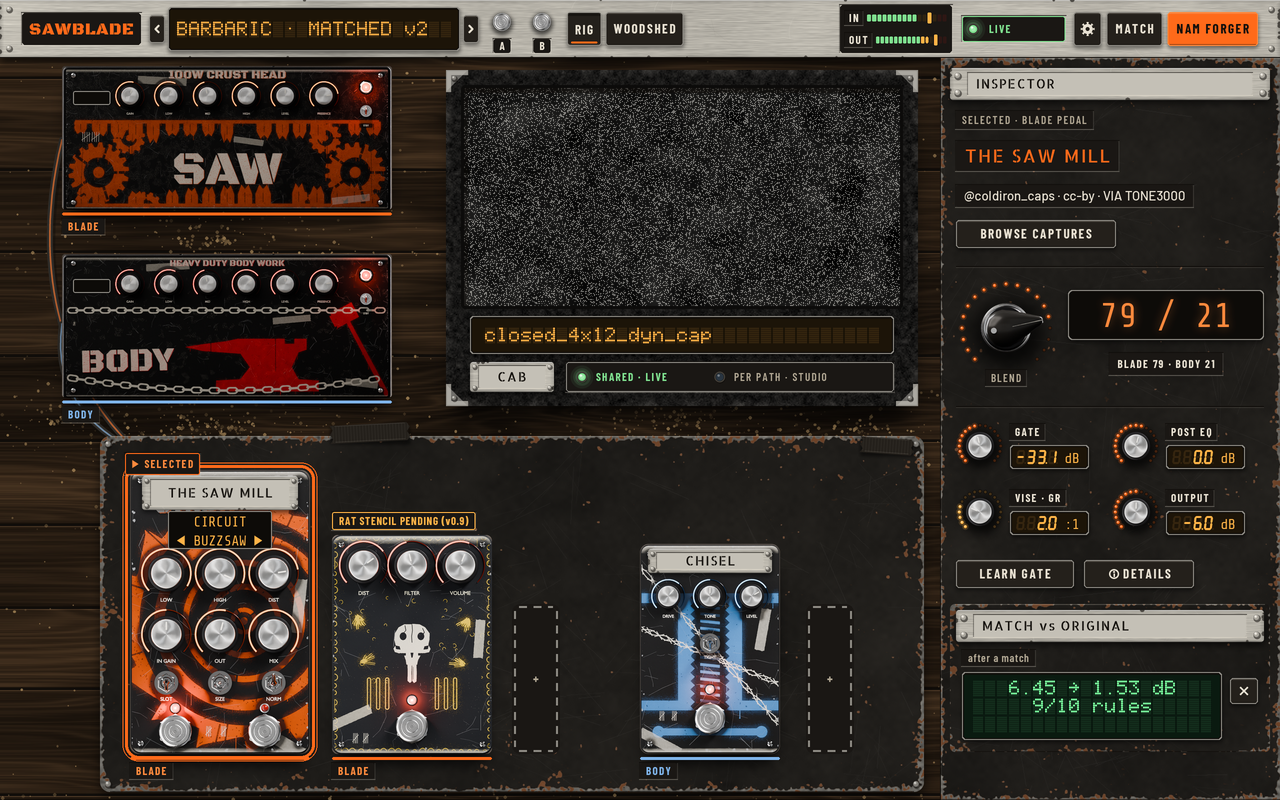
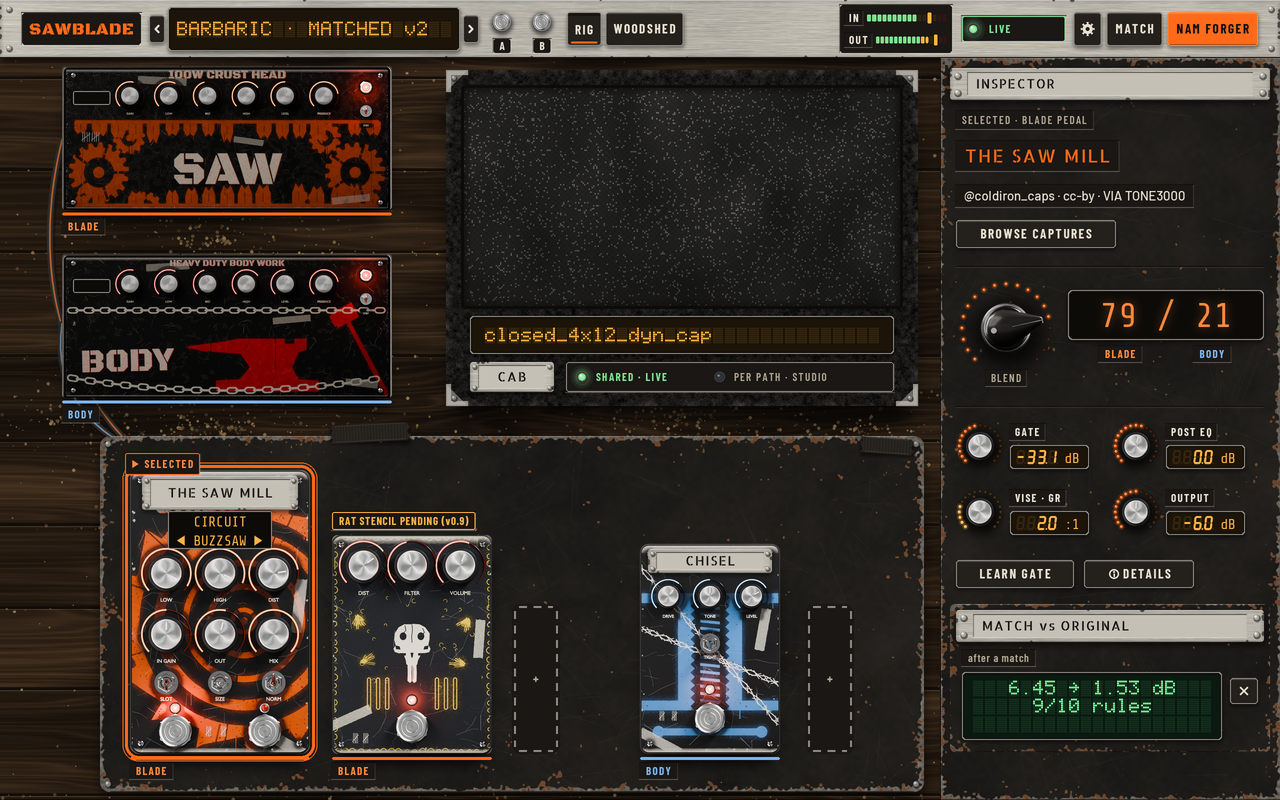
mockups: v4 fixes (cab a grille as woven cloth, BLEND axis labels, 08 header tags are type only)
- cab a grille: fine basket weave, near-black with sparse silver flecks, vertical drape shading, edges under the frame (both wear levels)
- 01 inspector: BLADE / BODY under the nixie digits instead of a caption repeating 79 / 21
- 08 cards: headers carry MODELLED / CAPTURE / PRE only; the lamp carries ACTIVE / BYPASSED; card() gets bypass_word (default unchanged)
- v2 / v3 PNGs unchanged; README what-changed lines updated

Claude-Session: https://claude.ai/code/session_01Xtcva4Boag1J55QcGzGRmV

Changed region(s): [[0.3438, 0.0938, 0.7188, 0.375], [0.8438, 0.4375, 0.9688, 0.4688]]

diff --git a/design/mockups/workshop/cabs.py b/design/mockups/workshop/cabs.py
@@ -8,6 +8,7 @@ Every cab shows SHARED · LIVE vs PER PATH · STUDIO as two lamps with words (sh
 import math
 import os
 import sys
+import zlib
 
 HERE = os.path.dirname(os.path.abspath(__file__))
 sys.path.insert(0, os.path.normpath(os.path.join(HERE, '..', '..', 'render')))
@@ -53,14 +54,23 @@ def ply_tex(w, h, key, tone=(184, 148, 100)):
 
 
 def pepper_tex(w, h, key):
-    """Salt-and-pepper grille cloth: black and grey 2 px flecks."""
+    """Salt-and-pepper grille cloth: a fine basket weave, near-black with small silver flecks on the thread grid, low contrast,
+    a slight vertical drape shading."""
     rng = ws._rng('pepper:' + key)
     W, H = int(w * S), int(h * S)
-    cw, ch = W // 2 + 1, H // 2 + 1
-    r = rng.random((ch, cw)).astype(np.float32)
-    a = np.where(r < 0.16, 128.0, np.where(r < 0.30, 70.0, 18.0))
-    a = np.kron(a, np.ones((2, 2), np.float32))[:H, :W]
-    a += ws._noise(rng, H, W, 40, 40)[:H, :W] * 4.0
+    cell = 3                                                    # device px per weave thread
+    yy, xx = np.mgrid[0:H, 0:W]
+    ty, tx = yy // cell, xx // cell
+    over = ((tx // 2 + ty // 2) % 2 == 0)                       # basket weave: 2 x 2 thread blocks alternate warp / weft
+    inner = np.where(over, (xx % cell) / (cell - 1.0), (yy % cell) / (cell - 1.0))
+    thread = 0.5 + 0.5 * np.sin(inner * math.pi)
+    a = 22.0 + 14.0 * thread * np.where(over, 1.0, 0.7)
+    seed = zlib.crc32(('fleck' + key + ws.get_wear()).encode('utf-8'))
+    fl = np.random.default_rng(seed).random((H // cell + 1, W // cell + 1)) < 0.07
+    fl = np.kron(fl, np.ones((cell, cell), bool))[:H, :W]
+    a = a + fl * (34.0 + 22.0 * thread)                         # small silver flecks, one thread long
+    a = a * (1.12 - 0.22 * (yy / float(H)))                     # vertical drape: lighter at the top, darker toward the bottom
+    a = a * (0.97 + 0.06 * ws._noise(rng, H, W, 60, 90)[:H, :W])
     img = np.stack([a, a * 0.99, a * 0.96], axis=-1)
     return Image.fromarray(np.clip(img, 0, 255).astype(np.uint8), 'RGB')
 
@@ -101,8 +111,12 @@ def cab_a(cv, rect, ir_title='closed_4x12_dyn_cap'):
     gr = (x0 + 18, y0 + 18, x1 - 18, y1 - 100)
     cv.fill((gr[0] - 3, gr[1] - 3, gr[2] + 3, gr[3] + 3), (12, 11, 10), 4)
     cv.texture(gr, pepper_tex(int(gr[2] - gr[0]), int(gr[3] - gr[1]), 'a'), 2)
-    cv.blend((gr[0], gr[1], gr[2], gr[1] + 5), 'bench_dark', 0.55)
-    cv.blend((gr[0], gr[1], gr[0] + 4, gr[3]), 'bench_dark', 0.4)
+    for i in range(7):                                   # the cloth runs under the tolex frame: a soft inner shadow on every edge
+        a_ = 0.5 * (1 - i / 7.0)
+        cv.blend((gr[0], gr[1] + i, gr[2], gr[1] + i + 1), 'bench_dark', a_)
+        cv.blend((gr[0], gr[3] - i - 1, gr[2], gr[3] - i), 'bench_dark', a_ * 0.8)
+        cv.blend((gr[0] + i, gr[1], gr[0] + i + 1, gr[3]), 'bench_dark', a_)
+        cv.blend((gr[2] - i - 1, gr[1], gr[2] - i, gr[3]), 'bench_dark', a_)
     _corner_caps(cv, rect)
     ws.dm_display(cv, (x0 + 24, y1 - 90, x1 - 24, y1 - 52), ir_title, h=14, tone='amber', pad=8)
     ws.nameplate(cv, (x0 + 24, y1 - 44, x0 + 108, y1 - 14), 'CAB')

diff --git a/design/mockups/workshop/screens_tools.py b/design/mockups/workshop/screens_tools.py
@@ -635,7 +635,7 @@ def _lane_header(cv, rect, name, right, color):
 def _block_card_v4(cv, rect, title, key, lines, accent, status=None, bypassed=False, lamp_line=None, input_db='0.0', knob_v=0.5):
     """v4 block card: title strip, two short lines (the first may carry a state lamp + word), one ACTIVE / BYPASSED lamp row with a
     BYPASS button, the INPUT knob + LCD and three icon buttons.  No duplicated captions."""
-    cd = ws.card(cv, rect, title, accent, bypassed=bypassed, status=None if bypassed else status, key=key)
+    cd = ws.card(cv, rect, title, accent, bypassed=bypassed, status=status, key=key, bypass_word=False)    # header = type tag only; the lamp carries the state
     bx0, by0, bx1, by1 = cd['body']
     wr = (bx0, by0, bx1, by0 + 44)
     well(cv, wr, 'well', 2)
@@ -688,7 +688,7 @@ def _screen_08_v4():
                    [('rat-style distortion', 'body_strong', None), ('modelled pedal', 'body_dim', None)], 'blade', status='MODELLED',
                    knob_v=0.7)
     _block_card_v4(cv, (xs[2], cy0, xs[2] + cw, cy0 + ch), 'SAW HEAD', 'v4b',
-                   [('UNCAL', 'label_b', 'warn'), ('default +9 dBu', 'body_dim', None)], 'blade', lamp_line='amber', input_db='+1.5', knob_v=0.56)
+                   [('UNCAL', 'label_b', 'warn'), ('default +9 dBu', 'body_dim', None)], 'blade', status='CAPTURE', lamp_line='amber', input_db='+1.5', knob_v=0.56)
     _block_card_v4(cv, (xs[3], cy0, xs[3] + cw, cy0 + ch), 'EQ', 'v4c',
                    [('PRE · 4 bands', 'body_strong', None), ('low cut 80 Hz', 'body_dim', None)], 'blade', status='PRE')
     ws.empty_slot(cv, (plus_x, cy0, x1, cy0 + ch), '+')
@@ -696,9 +696,9 @@ def _screen_08_v4():
     _lane_header(cv, (x0, ly2, x1, ly2 + 26), 'B · BODY', 'PATH B', 'body')
     cy1 = ly2 + 34
     _block_card_v4(cv, (xs[0], cy1, xs[0] + cw, cy1 + ch), 'CHISEL', 'v4d',
-                   [('modelled pedal', 'body', None), ('passes straight through', 'body_dim', None)], 'body', bypassed=True)
+                   [('modelled pedal', 'body', None), ('passes straight through', 'body_dim', None)], 'body', status='MODELLED', bypassed=True)
     _block_card_v4(cv, (xs[1], cy1, xs[1] + cw, cy1 + ch), 'BODY HEAD', 'v4e',
-                   [('✓ calibrated', 'body', 'ok'), ('+12.5 dBu', 'body_dim', None)], 'body', status='ON', input_db='-2.0', knob_v=0.42)
+                   [('✓ calibrated', 'body', 'ok'), ('+12.5 dBu', 'body_dim', None)], 'body', status='CAPTURE', input_db='-2.0', knob_v=0.42)
     ws.empty_slot(cv, (xs[2], cy1, xs[2] + 56, cy1 + ch), '+')
     ny = cy1 + ch + 12
     label_well(cv, (x0, ny + 13), 'CAB', 'label_b', h=22, pad=8)

diff --git a/design/render/workshop_style.py b/design/render/workshop_style.py
@@ -1209,7 +1209,7 @@ def nameplate(cv, rect, s, style='section', size=None, fg='ink'):
     return strip
 
 
-def card(cv, rect, title, accent=None, bypassed=False, status=None, key=None):
+def card(cv, rect, title, accent=None, bypassed=False, status=None, key=None, bypass_word=True):
     """Block card: worn steel body with a stamped alu_well title strip (and an optional status word in the strip's right
     corner).  ``bypassed`` lays the diagonal hatch over the body and stamps the word BYPASSED in the strip: draw the
     card's wells / controls AFTER this call.  ``accent`` = path colour token for a left edge bar.  Returns
@@ -1223,7 +1223,7 @@ def card(cv, rect, title, accent=None, bypassed=False, status=None, key=None):
         hatch(cv, (x0 + 3, strip[3] + 3, x1 - 3, y1 - 3), 10, 'steel_bare', 0.38, 2.0)
     well(cv, strip, 'alu_well', 2)
     text(cv, (strip[0] + 7, rect_c(strip)[1]), title, 'section', bg=strip)
-    word = 'BYPASSED' if bypassed else status
+    word = status if (bypassed and not bypass_word) else ('BYPASSED' if bypassed else status)
     if word:
         text(cv, (strip[2] - 7, rect_c(strip)[1]), word, 'label_ink', bg=strip, align='r')
     if accent:

diff --git a/design/mockups/workshop/screens_rig.py b/design/mockups/workshop/screens_rig.py
@@ -162,7 +162,10 @@ def _rig_v4(vermin, cab):
     ws.knob(cv, x0 + 50, kcy, 84, 'amp', 0.79, 'blade', 'BLEND', ring=True)
     nx0 = x0 + 112
     ws.nixie(cv, (nx0, y + 6, x1, y + 56), '79 / 21', 34)
-    ws.label_well(cv, ((nx0 + x1) / 2.0, y + 80), 'BLADE 79 · BODY 21', 'label_b', pad=8, align='c')
+    ncx = (nx0 + x1) / 2.0
+    cw_ = ws.text_width('7', 'nixie', size=34)
+    ws.label_well(cv, (ncx - 2.5 * cw_, y + 70), 'BLADE', 'label_b', h=16, pad=6, align='c', fg='blade_hi')
+    ws.label_well(cv, (ncx + 2.5 * cw_, y + 70), 'BODY', 'label_b', h=16, pad=6, align='c', fg='body')
     y = kcy + 44 + 34
     cv.blend((x0, y, x1, y + 1), 'bench_dark', 0.9)
     cv.blend((x0, y + 1, x1, y + 2), 'bone', 0.1)

diff --git a/design/mockups/workshop/README.md b/design/mockups/workshop/README.md
@@ -265,6 +265,7 @@ mockup drawings (`cabs.py`), our own, no makers' logos.
 
 **01 main rig**
 - R1 -> no caption chips under amps or pedals; each amp and pedal has a 3 px path edge (BLADE orange, BODY blue) plus a `BLADE` / `BODY` word in a well.
+- R1 -> the BLEND nixie `79 / 21` is labelled `BLADE` and `BODY` under its two numbers; the caption that repeated the values is gone.
 - R1 -> the inspector no longer repeats the CIRCUIT selector; it lives on THE SAW MILL's face (`CIRCUIT ◀ BUZZSAW ▶` on its display).
 - R2 -> the METERS column is gone and the cab takes the space; IN / OUT are thin LED ladders in the top bar, GR is the LED ring on `VISE · GR`.
 - R3 -> MATCH vs ORIGINAL is a dismissable card (✕) captioned "after a match"; ALIGN is gone from the inspector, `ⓘ DETAILS` stands for the pop-over (ALIGN, LAT, CPU).
@@ -285,6 +286,7 @@ mockup drawings (`cabs.py`), our own, no makers' logos.
 - R6 -> amber values, green only for the Auto good state; one orange primary (APPLY).
 
 **08 rig editor**
+- R1 -> card headers keep only the type tag (`MODELLED`, `CAPTURE`, `PRE`); the state is the lamp (`ACTIVE` / `BYPASSED`), and the bypass hatch stays.
 - R1 -> no duplicated captions on the cards (credit, level metadata and circuit lines are cut to two short lines); the path is the lane plate plus the orange / blue edge.
 - R3 -> empty slots collapse to one `+` per lane; the status is one line (`✓ built · 6 blocks`), the meters are in the top bar.
 - R6 -> UNCAL and BYPASS stay as lamp + word (amber lamp `UNCAL`, `ACTIVE` / `BYPASSED` lamp with a BYPASS button).
@@ -292,7 +294,7 @@ mockup drawings (`cabs.py`), our own, no makers' logos.
 
 ### Cab directions (01_main_rig_cab_a/_b/_c.png)
 
-- **a, tolex**: worn black tolex with steel corner caps, a salt-and-pepper grille, a riveted steel `CAB` nameplate, the IR title on a small amber LCD strip.
+- **a, tolex**: worn black tolex with steel corner caps, a fine basket-weave salt-and-pepper grille (low-contrast cloth with small silver flecks, a vertical drape shading, edges running under the tolex frame), a riveted steel `CAB` nameplate, the IR title on a small amber LCD strip.
 - **b, plywood**: stripped open-back bare plywood with four visible generic speakers and a stencilled `CAB · 4x12` strip.
 - **c, road case**: aluminium edge extrusions and corner caps, butterfly latches, a perforated grille, a stencilled `CAB · 4x12` panel.
 - All three show SHARED · LIVE (lit green lamp) vs PER PATH · STUDIO (unlit blue lamp) as lamps plus words.
@@ -320,14 +322,14 @@ Lowest ratio of any text: **5.94:1**. The strong set has identical ratios (same 
 | dotmatrix | lcd_green | #244d31 | 7.66:1 ok | 4.5 | 14 | 13 | 01 03 08 |
 | label | bone_dim | well | 7.67:1 ok | 4.5 | 11 | 24 | 01 03 08 |
 | label_b | alert | well | 6.38:1 ok | 4.5 | 11 | 2 | 02 |
-| label_b | blade_hi | well | 7.61:1 ok | 4.5 | 11 | 21 | 01 02 |
-| label_b | body | well | 8.18:1 ok | 4.5 | 11 | 8 | 01 |
-| label_b | bone | well | 13.71:1 ok | 4.5 | 11 | 91 | 01 02 03 08 |
+| label_b | blade_hi | well | 7.61:1 ok | 4.5 | 11 | 27 | 01 02 03 08 |
+| label_b | body | well | 8.18:1 ok | 4.5 | 11 | 14 | 01 03 08 |
+| label_b | bone | well | 13.71:1 ok | 4.5 | 11 | 85 | 01 02 03 08 |
 | label_b | bone | well_raised | 12.43:1 ok | 4.5 | 11 | 1 | 08 |
 | label_b | bone_dim | well | 7.67:1 ok | 4.5 | 11 | 1 | 08 |
 | label_b | ok | well | 11.02:1 ok | 4.5 | 11 | 14 | 01 02 03 08 |
 | label_b | warn | well | 10.02:1 ok | 4.5 | 11 | 4 | 02 03 08 |
-| label_ink | ink | alu_well | 10.36:1 ok | 4.5 | 11 | 8 | 08 |
+| label_ink | ink | alu_well | 10.36:1 ok | 4.5 | 11 | 9 | 08 |
 | label_ink | ink | blade_hi | 8.03:1 ok | 4.5 | 11 | 1 | 03 |
 | label_mx | bone_dim | well | 7.67:1 ok | 4.5 | 11 | 6 | 01 03 08 |
 | label_mx_b | warn | well | 10.02:1 ok | 4.5 | 11 | 4 | 01 |
@@ -342,7 +344,7 @@ Lowest ratio of any text: **5.94:1**. The strong set has identical ratios (same 
 | section_mixed | ink | alu_well | 10.36:1 ok | 4.5 | 13 | 7 | 01 03 08 |
 | title | bone | well | 13.71:1 ok | 3.0 | 22,24 | 2 | 01 03 |
 
-521 strings measured on 7 screens: all pass WCAG 2.x AA
+528 strings measured on 7 screens: all pass WCAG 2.x AA
 
 ## Notes and open items
 
